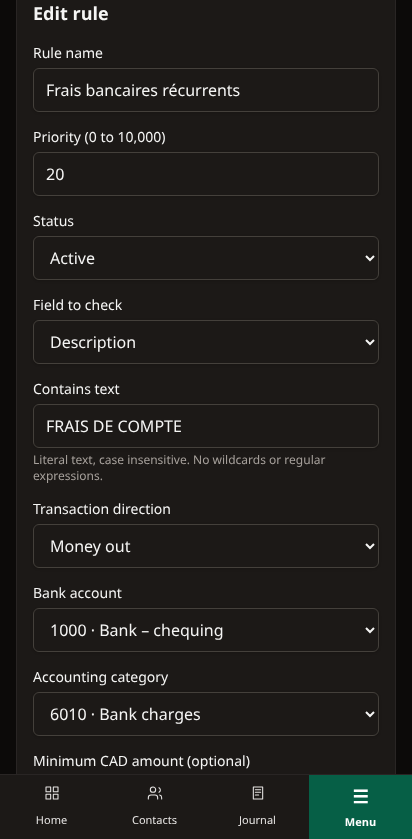
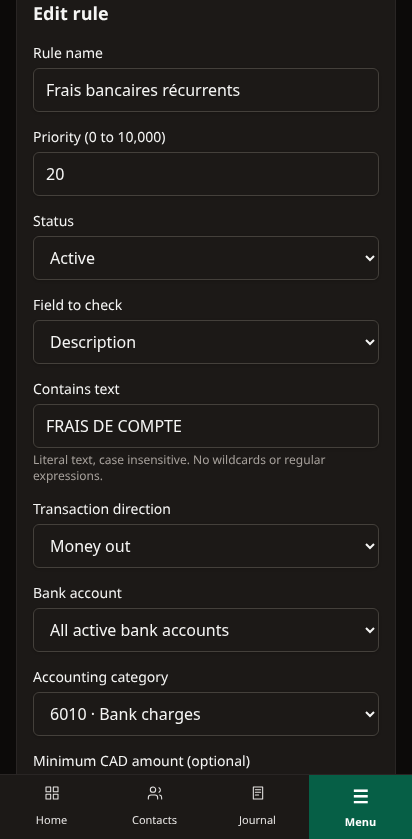
fix(banking): allow rules across all bank accounts

diff --git a/src/app/c/[companyId]/transactions/regles/page.tsx b/src/app/c/[companyId]/transactions/regles/page.tsx
@@ -55,7 +55,7 @@ export default async function RulesPage({ params, searchParams }: { params: Prom
           <SelectField name="field" label={t("field")} defaultValue={selected?.field ?? (from?.payee ? "PAYEE" : "DESCRIPTION")} options={[{ value: "DESCRIPTION", label: t("description") }, { value: "PAYEE", label: t("payee") }]} />
           <Field name="text" label={t("text")} defaultValue={selected?.text ?? (from?.payee || from?.description)?.slice(0,200)} hint={t("textHint")} />
           <SelectField name="direction" label={t("direction")} defaultValue={selected?.direction ?? (from && from.amountCents > 0n ? "IN" : "OUT")} options={(["ANY", "IN", "OUT"] as const).map(value => ({ value, label: t(value) }))} />
-          <SelectField name="sourceAccountId" label={t("source")} defaultValue={selected ? selected.sourceAccountId ?? "" : from?.accountId ?? ""} options={[{ value: "", label: t("allBanks") }, ...bankOptions]} />
+          <SelectField name="sourceAccountId" required={false} label={t("source")} defaultValue={selected ? selected.sourceAccountId ?? "" : from?.accountId ?? ""} options={[{ value: "", label: t("allBanks") }, ...bankOptions]} />
           <SelectField name="targetAccountId" label={t("target")} defaultValue={selected?.targetAccountId ?? ""} options={[{ value: "", label: t("chooseCategory") }, ...targets.map(a => ({ value: a.id, label: `${a.code} · ${accountName(a, locale)}` }))]} />
           <Field name="min" label={t("min")} defaultValue={moneyInput(selected?.minCents)} required={false} inputMode="decimal" />
           <Field name="max" label={t("max")} defaultValue={moneyInput(selected?.maxCents)} required={false} inputMode="decimal" />

diff --git a/tests/e2e/journey.spec.ts b/tests/e2e/journey.spec.ts
@@ -1546,8 +1546,11 @@ async function bankMatchingJourney(page: Page) {
   await page.getByRole("button", { name: "Activer : Frais bancaires récurrents", exact: true }).click();
   await expect(page.getByText(/1 correspondance\(s\) parmi/)).toBeVisible();
   await page.getByLabel("Priorité (0 à 10 000)", { exact: true }).fill("20");
+  await page.getByLabel("Compte bancaire", { exact: true }).selectOption("");
   await page.getByRole("button", { name: "Enregistrer la règle", exact: true }).click();
-  await expect(page.getByLabel("Priorité (0 à 10 000)", { exact: true })).toHaveValue("20");
+  await expect(page.getByText(/^Active · 20 · 6010/)).toBeVisible();
+  await expect(page.getByLabel("Compte bancaire", { exact: true })).toHaveValue("");
+  await expect(page.getByText(/1 correspondance\(s\) parmi/)).toBeVisible();
   await page.getByRole("button", { name: "English", exact: true }).click();
   await expect(page.getByRole("heading", { name: "Bank rules", exact: true })).toBeVisible();
   await expect(page.getByLabel("Minimum CAD amount (optional)", { exact: true })).toHaveValue("10.00");

diff --git a/CHANGELOG.md b/CHANGELOG.md
@@ -4,8 +4,6 @@ Format basé sur [Keep a Changelog](https://keepachangelog.com/fr/1.1.0/); versi
 
 ## [Non publié]
 
-## [0.4.0-alpha.38] - 2026-11-02
-
 - Règles bancaires par entreprise : création depuis une opération, conditions littérales et montants exacts, priorité, modification et pause, aperçu borné, suggestions FR/EN et confirmation explicite. Application atomique avec contrôle de révision, comptes actifs, permissions modulaires, audit et protection des doubles confirmations; aucun calcul de taxe ni paiement de facture automatique.
 
 ## [0.4.0-alpha.37] - 2026-11-02
